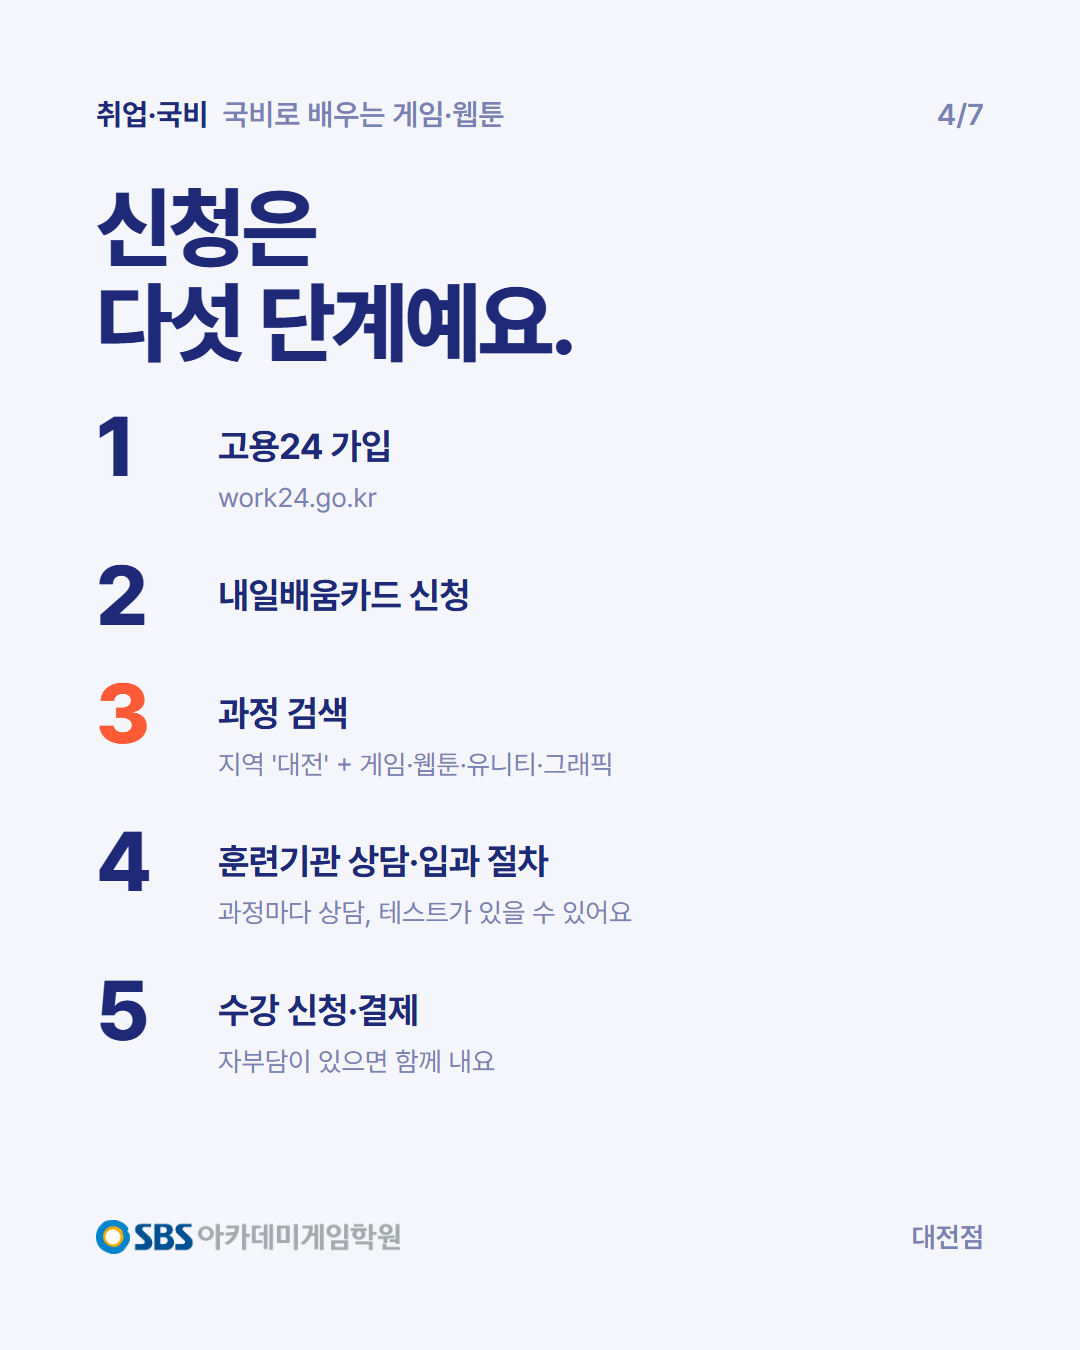
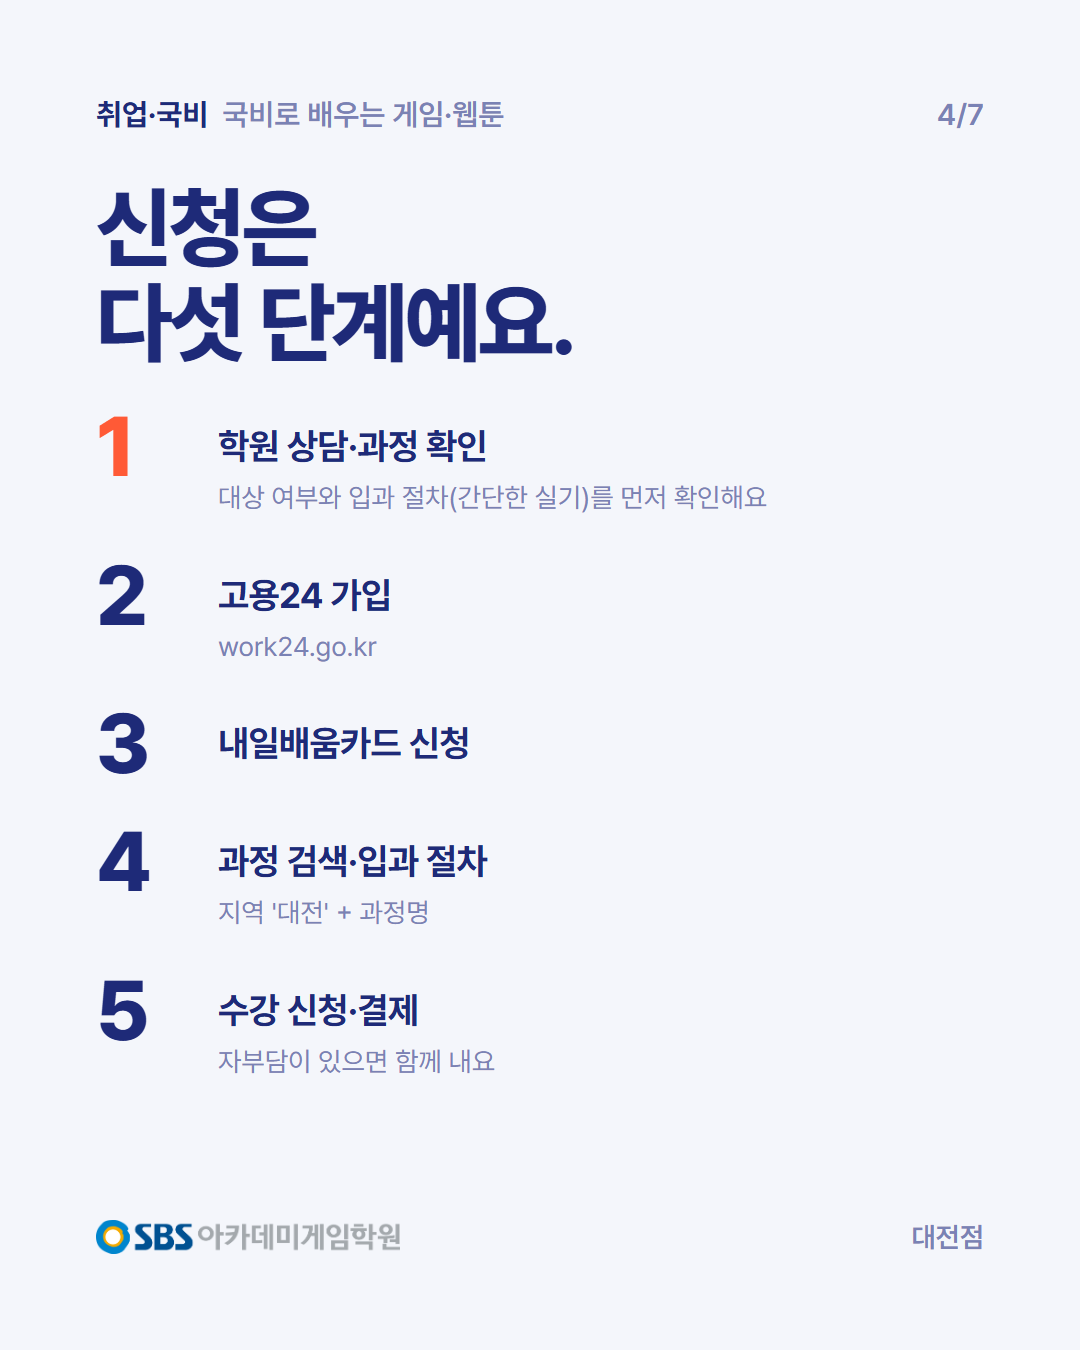
카드뉴스 03: 상담 먼저, 카드 신청은 그다음 순서로 문구 수정(1·2·4·7장, 캡션)

diff --git a/instagram/assets/src/v2_03_04.html b/instagram/assets/src/v2_03_04.html
@@ -25,20 +25,20 @@ h1{font-weight:800;letter-spacing:-3px;line-height:1.08}
 <h1 style="margin-top:48px;font-size:88px">신청은<br>다섯 단계예요.</h1>
 
 <div style="display:flex;gap:30px;align-items:flex-start;margin-top:34px">
-<div style="flex:none;width:92px;font-size:84px;font-weight:800;letter-spacing:-3px;line-height:1;color:#1E2A78">1</div>
-<div style="padding-top:16px"><p class="body" style="font-weight:700">고용24 가입</p><p class="small" style="margin-top:4px">work24.go.kr</p></div></div>
+<div style="flex:none;width:92px;font-size:84px;font-weight:800;letter-spacing:-3px;line-height:1;color:#FF5A36">1</div>
+<div style="padding-top:16px"><p class="body" style="font-weight:700">학원 상담·과정 확인</p><p class="small" style="margin-top:4px">대상 여부와 입과 절차(간단한 실기)를 먼저 확인해요</p></div></div>
 
 <div style="display:flex;gap:30px;align-items:flex-start;margin-top:34px">
 <div style="flex:none;width:92px;font-size:84px;font-weight:800;letter-spacing:-3px;line-height:1;color:#1E2A78">2</div>
+<div style="padding-top:16px"><p class="body" style="font-weight:700">고용24 가입</p><p class="small" style="margin-top:4px">work24.go.kr</p></div></div>
+
+<div style="display:flex;gap:30px;align-items:flex-start;margin-top:34px">
+<div style="flex:none;width:92px;font-size:84px;font-weight:800;letter-spacing:-3px;line-height:1;color:#1E2A78">3</div>
 <div style="padding-top:16px"><p class="body" style="font-weight:700">내일배움카드 신청</p></div></div>
 
 <div style="display:flex;gap:30px;align-items:flex-start;margin-top:34px">
-<div style="flex:none;width:92px;font-size:84px;font-weight:800;letter-spacing:-3px;line-height:1;color:#FF5A36">3</div>
-<div style="padding-top:16px"><p class="body" style="font-weight:700">과정 검색</p><p class="small" style="margin-top:4px">지역 '대전' + 게임·웹툰·유니티·그래픽</p></div></div>
-
-<div style="display:flex;gap:30px;align-items:flex-start;margin-top:34px">
 <div style="flex:none;width:92px;font-size:84px;font-weight:800;letter-spacing:-3px;line-height:1;color:#1E2A78">4</div>
-<div style="padding-top:16px"><p class="body" style="font-weight:700">훈련기관 상담·입과 절차</p><p class="small" style="margin-top:4px">과정마다 상담, 테스트가 있을 수 있어요</p></div></div>
+<div style="padding-top:16px"><p class="body" style="font-weight:700">과정 검색·입과 절차</p><p class="small" style="margin-top:4px">지역 '대전' + 과정명</p></div></div>
 
 <div style="display:flex;gap:30px;align-items:flex-start;margin-top:34px">
 <div style="flex:none;width:92px;font-size:84px;font-weight:800;letter-spacing:-3px;line-height:1;color:#1E2A78">5</div>

diff --git a/instagram/assets/src/v2_03_02.html b/instagram/assets/src/v2_03_02.html
@@ -22,10 +22,10 @@ h1{font-weight:800;letter-spacing:-3px;line-height:1.08}
 .mark{color:#FF5A36}
 </style></head>
 <body><div class="canvas" style="width:1080px;height:1350px"><div class="in"><div class="top"><span><b>취업·국비</b>&nbsp; 국비로 배우는 게임·웹툰</span><span>2/7</span></div>
-<h1 style="margin-top:60px;font-size:112px">카드 먼저,<br>과정은 그다음.</h1>
-<p class="lead" style="margin-top:48px"><u style="text-decoration-color:#FF5A36;text-decoration-thickness:8px;text-underline-offset:12px">국민내일배움카드</u>를 발급받고,<br>고용24에서 '대전'과 분야로 검색하면 돼요.</p>
+<h1 style="margin-top:60px;font-size:112px">상담 먼저,<br>카드는 그다음.</h1>
+<p class="lead" style="margin-top:48px">학원 상담에서 <u style="text-decoration-color:#FF5A36;text-decoration-thickness:8px;text-underline-offset:12px">과정과 입과 절차</u>를 확인한 뒤<br>내일배움카드를 신청하는 순서를 권해요.</p>
 <div class="body" style="margin-top:72px">
+<p>카드부터 만들면 과정에 따라<br>입과가 안 될 수 있어요.</p>
 <p>한도는 통장에 들어오는 현금이 아니라<br>훈련비를 결제할 때 쓰는 금액이에요.</p>
-<p>내 부담금(자부담)은 과정마다 달라요.</p>
 </div>
 <div class="foot"><img src="logo/SBS아카데미게임학원_Color.png" alt="SBS아카데미게임학원"><span>대전점</span></div></div></div></body></html>

diff --git a/instagram/assets/src/v2_03_07.html b/instagram/assets/src/v2_03_07.html
@@ -23,7 +23,7 @@ h1{font-weight:800;letter-spacing:-3px;line-height:1.08}
 </style></head>
 <body><div class="canvas" style="width:1080px;height:1350px"><div class="in"><div class="top"><span><b>취업·국비</b>&nbsp; 국비로 배우는 게임·웹툰</span><span>7/7</span></div>
 <h1 style="margin-top:60px;font-size:92px">내가 대상인지,<br>자부담은 얼마인지</h1>
-<p class="lead" style="margin-top:44px">과정별 대상 여부와 입과 절차를<br>상담에서 정리해 드려요.</p>
+<p class="lead" style="margin-top:44px">과정별 대상 여부와 입과 절차를<br>상담에서 정리해 드려요. 카드 신청은 그다음에.</p>
 <div class="body" style="margin-top:80px;line-height:1.8">
 <p>프로필 링크에서 <b style="color:#FF5A36">상담 신청</b> &nbsp;<span class="small">1~2분</span></p>
 <p>전화 042-716-7439 &nbsp;<span class="small">09:00~22:00</span></p>

diff --git a/instagram/assets/src/v2_03_01.html b/instagram/assets/src/v2_03_01.html
@@ -28,5 +28,5 @@ h1{font-weight:800;letter-spacing:-3px;line-height:1.08}
   <span style="font-size:124px;font-weight:800;letter-spacing:-4px;margin-left:10px">만원</span>
 </div>
 <h1 style="margin-top:110px;font-size:84px">국비로 게임·웹툰,<br>배울 수 있어요.</h1>
-<p class="lead" style="margin-top:34px;color:#7A82B4">카드 신청부터 대전점 과정까지<br>7장으로 정리했어요.</p>
+<p class="lead" style="margin-top:34px;color:#7A82B4">상담부터 카드 신청까지<br>7장으로 정리했어요.</p>
 <div class="foot"><img src="logo/SBS아카데미게임학원_Color.png" alt="SBS아카데미게임학원"><span>대전점</span></div></div></div></body></html>

diff --git a/instagram/build_carousels_v2.py b/instagram/build_carousels_v2.py
@@ -145,16 +145,16 @@ K1 = f"""
   <span style="font-size:124px;font-weight:800;letter-spacing:-4px;margin-left:10px">만원</span>
 </div>
 <h1 style="margin-top:110px;font-size:84px">국비로 게임·웹툰,<br>배울 수 있어요.</h1>
-<p class="lead" style="margin-top:34px;color:{MIST}">카드 신청부터 대전점 과정까지<br>7장으로 정리했어요.</p>
+<p class="lead" style="margin-top:34px;color:{MIST}">상담부터 카드 신청까지<br>7장으로 정리했어요.</p>
 """
 
-# 2 결론 — 순서는 카드 먼저
+# 2 결론 — 순서는 상담 먼저 (brand/profile.md 2026-10-28: 입과 테스트가 있어 카드부터 만들면 입과가 안 될 수 있음)
 K2 = f"""
-<h1 style="margin-top:60px;font-size:112px">카드 먼저,<br>과정은 그다음.</h1>
-<p class="lead" style="margin-top:48px"><u style="text-decoration-color:{ORANGE};text-decoration-thickness:8px;text-underline-offset:12px">국민내일배움카드</u>를 발급받고,<br>고용24에서 '대전'과 분야로 검색하면 돼요.</p>
+<h1 style="margin-top:60px;font-size:112px">상담 먼저,<br>카드는 그다음.</h1>
+<p class="lead" style="margin-top:48px">학원 상담에서 <u style="text-decoration-color:{ORANGE};text-decoration-thickness:8px;text-underline-offset:12px">과정과 입과 절차</u>를 확인한 뒤<br>내일배움카드를 신청하는 순서를 권해요.</p>
 <div class="body" style="margin-top:72px">
+<p>카드부터 만들면 과정에 따라<br>입과가 안 될 수 있어요.</p>
 <p>한도는 통장에 들어오는 현금이 아니라<br>훈련비를 결제할 때 쓰는 금액이에요.</p>
-<p>내 부담금(자부담)은 과정마다 달라요.</p>
 </div>
 """
 
@@ -183,10 +183,10 @@ def step(n, text, note="", hot=False):
 
 K4 = f"""
 <h1 style="margin-top:48px;font-size:88px">신청은<br>다섯 단계예요.</h1>
-{step(1, "고용24 가입", "work24.go.kr")}
-{step(2, "내일배움카드 신청")}
-{step(3, "과정 검색", "지역 '대전' + 게임·웹툰·유니티·그래픽", True)}
-{step(4, "훈련기관 상담·입과 절차", "과정마다 상담, 테스트가 있을 수 있어요")}
+{step(1, "학원 상담·과정 확인", "대상 여부와 입과 절차(간단한 실기)를 먼저 확인해요", True)}
+{step(2, "고용24 가입", "work24.go.kr")}
+{step(3, "내일배움카드 신청")}
+{step(4, "과정 검색·입과 절차", "지역 '대전' + 과정명")}
 {step(5, "수강 신청·결제", "자부담이 있으면 함께 내요")}
 """
 
@@ -221,7 +221,7 @@ K6 = f"""
 # 7 상담
 K7 = f"""
 <h1 style="margin-top:60px;font-size:92px">내가 대상인지,<br>자부담은 얼마인지</h1>
-<p class="lead" style="margin-top:44px">과정별 대상 여부와 입과 절차를<br>상담에서 정리해 드려요.</p>
+<p class="lead" style="margin-top:44px">과정별 대상 여부와 입과 절차를<br>상담에서 정리해 드려요. 카드 신청은 그다음에.</p>
 <div class="body" style="margin-top:80px;line-height:1.8">
 <p>프로필 링크에서 <b style="color:{ORANGE}">상담 신청</b> &nbsp;<span class="small">1~2분</span></p>
 <p>전화 042-716-7439 &nbsp;<span class="small">09:00~22:00</span></p>

diff --git a/instagram/README.md b/instagram/README.md
@@ -129,11 +129,15 @@ SBS아카데미게임학원 대전점의 고용24 등재 과정
 • 게임프로그래밍(유니티) (국가기간·전략산업직종훈련)
 • 웹툰 (국민내일배움카드)
 
-입과 전에 상담과 간단한 실기로 기초를 확인해요.
+순서는 상담이 먼저예요.
+입과 전에 상담과 간단한 실기로 기초를 확인하기 때문에,
+카드부터 만들면 과정에 따라 입과가 안 될 수 있어요.
+대상 여부와 입과 절차를 확인한 뒤 내일배움카드를 신청하세요.
+
 훈련비·자부담은 과정과 개인별로 달라
 고용24에서 과정명으로 확인하는 게 정확해요.
 
-신청 방법이 궁금하면 프로필 링크 → 상담 신청 📝
+상담 신청은 프로필 링크에서 📝
 
 #국비지원 #내일배움카드 #대전국비교육 #게임취업 #웹툰학원
 ```
